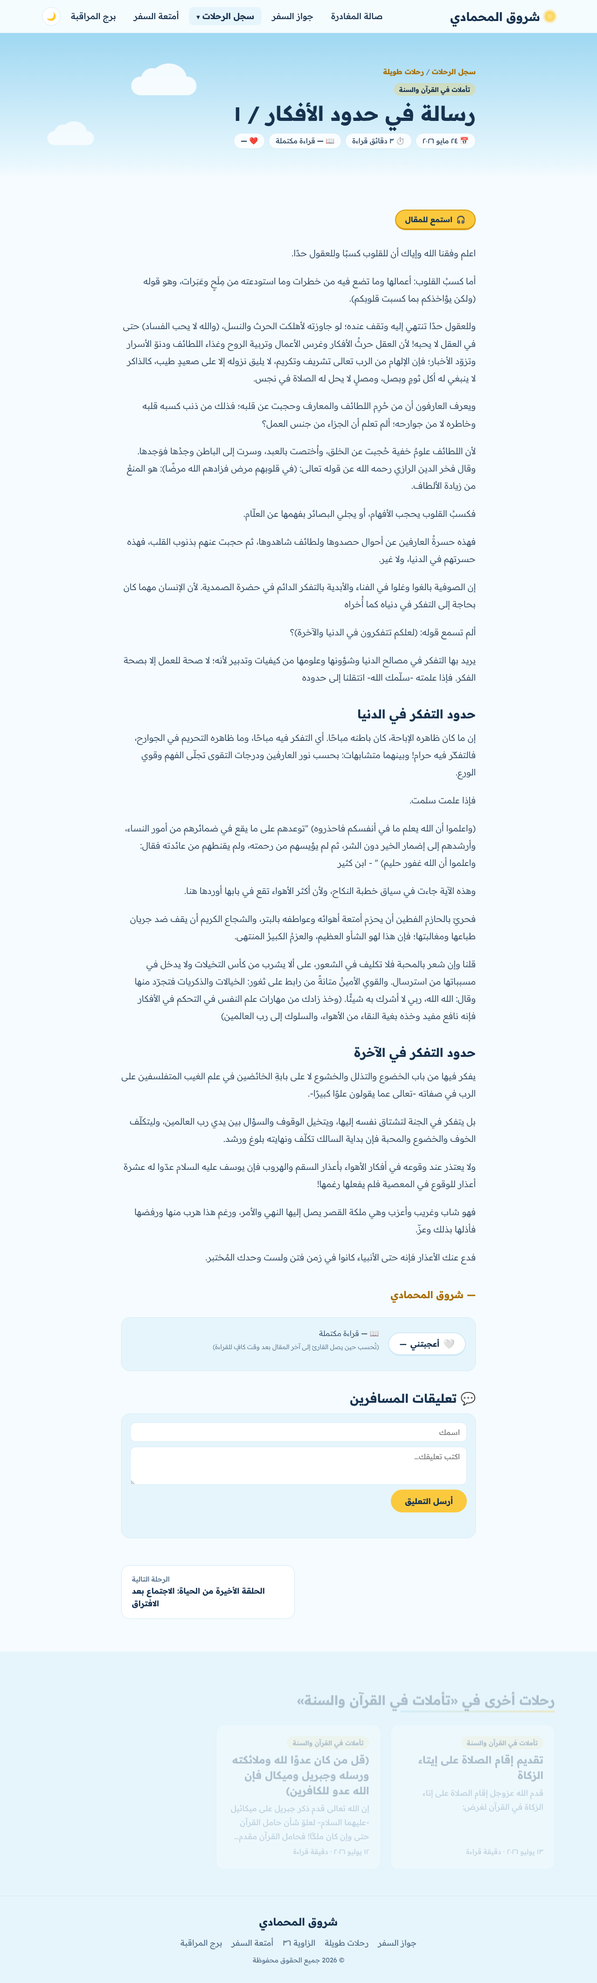
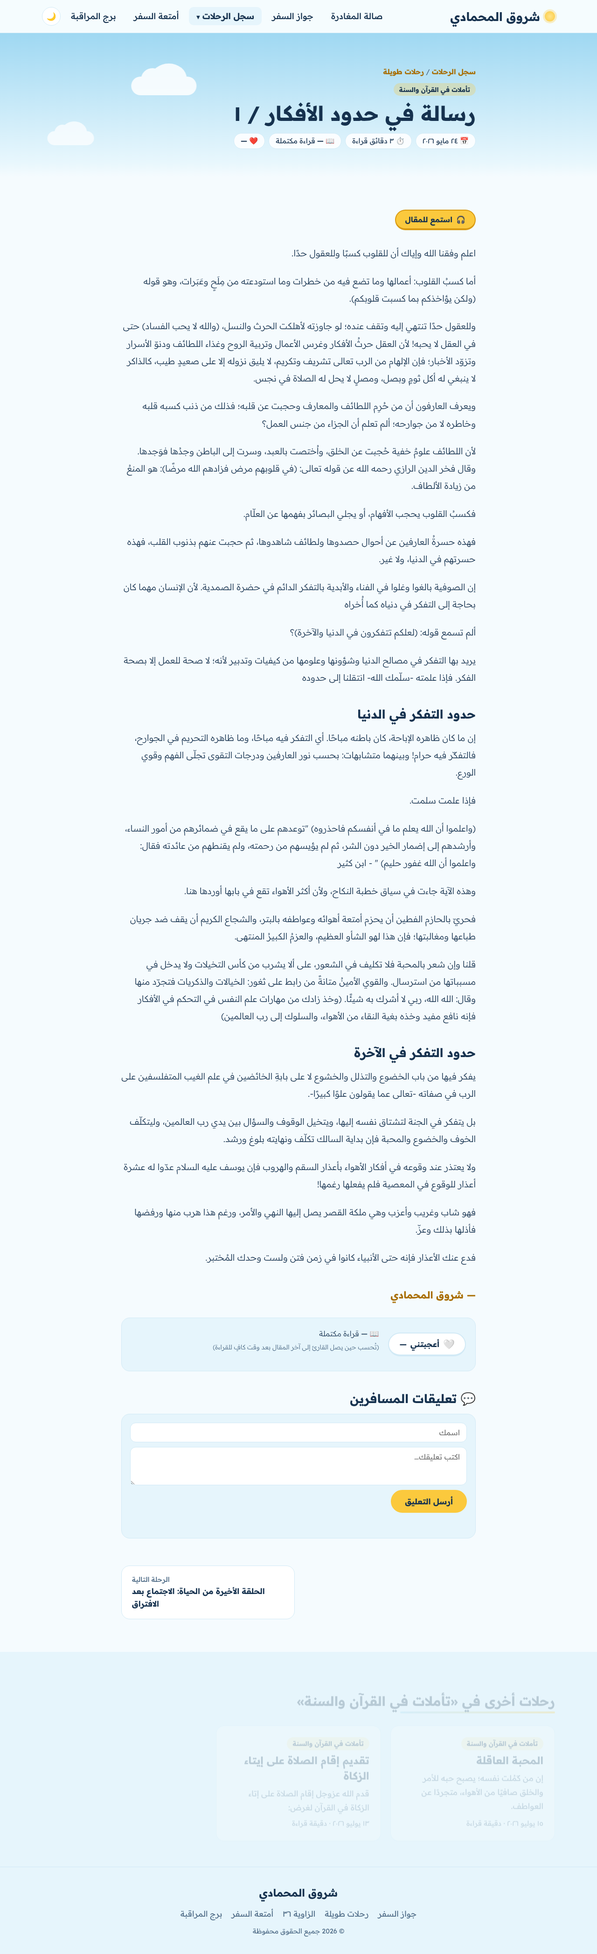
Add the article «المحبة العاقلة»
Claude-Session: https://claude.ai/code/session_0148avAa54TH8wvGnnB1ukQi

diff --git a/blog/articles/al-mahabba-al-aqila.html b/blog/articles/al-mahabba-al-aqila.html
@@ -1,0 +1,130 @@
+<!doctype html>
+<html lang="ar" dir="rtl">
+<head>
+  <meta charset="utf-8">
+  <meta name="viewport" content="width=device-width, initial-scale=1">
+  <title>المحبة العاقلة · شروق المحمادي</title>
+  <meta name="description" content="إن من كَمُلت نفسه؛ يصبح حبه للأمر والخلق صافيًا من الأهواء، متجردًا عن العواطف.">
+  <script>try{var t=localStorage.getItem("theme");if(t)document.documentElement.dataset.theme=t;}catch(e){}</script>
+  <link rel="preconnect" href="https://fonts.googleapis.com">
+  <link rel="preconnect" href="https://fonts.gstatic.com" crossorigin>
+  <link href="https://fonts.googleapis.com/css2?family=Readex+Pro:wght@300;400;500;600;700&family=Amiri+Quran&display=swap" rel="stylesheet">
+  <link rel="stylesheet" href="../../assets/styles.css">
+</head>
+<body>
+  <header class="site-header">
+    <div class="container nav">
+      <a href="../../index.html" class="logo"><span class="logo-sun" aria-hidden="true"></span>شروق المحمادي</a>
+      <button class="menu-toggle" aria-label="فتح القائمة" aria-expanded="false">☰</button>
+      <nav class="nav-links" aria-label="القائمة الرئيسية">
+        <a href="../../index.html">صالة المغادرة</a>
+        <a href="../../sira.html">جواز السفر</a>
+        <div class="has-sub">
+          <a href="../../blog/index.html" class="active">سجل الرحلات <span class="caret" aria-hidden="true">▾</span></a>
+          <div class="sub">
+            <a href="../../blog/articles.html" class="active">رحلات طويلة</a>
+            <a href="../../blog/zawiya-36.html">الزاوية ٣٦</a>
+          </div>
+        </div>
+        <a href="../../books.html">أمتعة السفر</a>
+        <a href="../../contact.html">برج المراقبة</a>
+        <button class="theme-toggle" aria-label="تبديل الوضع الليلي">🌙</button>
+      </nav>
+    </div>
+  </header>
+
+  <main>
+    <section class="page-hero article-hero">
+      <div class="clouds" aria-hidden="true"><span class="cloud c1"></span><span class="cloud c2"></span></div>
+      <div class="container narrow">
+        <nav class="crumbs" aria-label="مسار التنقل"><a href="../index.html">سجل الرحلات</a> / <a href="../articles.html">رحلات طويلة</a></nav>
+        <span class="tag">تأملات في القرآن والسنة</span>
+        <h1>المحبة العاقلة</h1>
+        <ul class="post-meta">
+          <li>📅 ١٥ يوليو ٢٠٢٦</li>
+          <li>⏱ دقيقة قراءة</li>
+          <li>📖 <b class="read-count">…</b> قراءة مكتملة</li>
+          <li>❤ <b class="like-count">…</b></li>
+        </ul>
+      </div>
+    </section>
+
+    <article class="section" id="post" data-slug="al-mahabba-al-aqila" data-minutes="1.13">
+      <div class="container narrow prose">
+        <div class="listen" hidden>
+          <button class="listen-btn" type="button"><span class="listen-icon" aria-hidden="true">🎧</span> <span class="listen-label">استمع للمقال</span></button>
+          <button class="listen-stop" type="button" hidden>⏹ إيقاف</button>
+          <button class="listen-rate" type="button" hidden>السرعة ١×</button>
+          <span class="listen-status" role="status"></span>
+        </div>
+        <p>إن من كَمُلت نفسه؛ يصبح حبه للأمر والخلق صافيًا من الأهواء، متجردًا عن العواطف.</p>
+        <p>فأنت تحبهم لحصول الهداية والخير لهم؛ وهذه المحبة الناشئة عن التعقل، لا لمصالحك منهم، ولا لجمالهم وأشكالهم وألوانهم وأصواتهم.</p>
+        <p>فالإخلاص في القصد حتى عند معاملة الخلق هو كمال النفس والمحبة.</p>
+        <p>وكذلك الأمر للأهداف في الحياة والطموحات</p>
+        <p>{قد نرى تقلب وجهك في السماء فلنولينك قبلة ترضاها} قال ترضاها ولم يقل تهواها أو تحبها؛ لأن رسول الله صلى الله عليه وسلم نفسه كاملة فهو أحبَّ أن تكون القبلة إلى الكعبة؛ لأنها بنيت على التوحيد فهي أولى من غيرها، وليس لأنها موطنه أو تعصبًا لقبيلته.</p>
+        <p>كمال نفس رسول الله صلى الله عليه وسلم فهو لا يتعلق قلبه بشيء معين بل يريد الشيء في قلبه لمصلحة خير.</p>
+        <p>ترضاها "ولَمّا كانَ الرِّضى مُشْعِرًا بِالمَحَبَّةِ النّاشِئَةِ عَنْ تَعَقُّلٍ اخْتِيرَ في هَذا المَقامِ دُونَ ”تُحِبُّها“ أوْ ”تَهْواها“ - ابن عاشور</p>
+        <p>فالمحبة التي تبنى على أسباب عقلية وإيمانية هي أكمل المحبة، ونفسك جاهدها على ذلك، ثم انظر إلى نعيم الارتياح الذي أنت فيه.</p>
+        <p>إنني أحب الإنسانية، غير أن هناك شيئًا في نفسي يدهشني، كلما ازداد حبي للإنسانية جملة واحدة نقص حبي للبشر أفرادًا."</p>
+        <p>يظهر أن دوستيفسكي قد وصل لمرحلة عالية من الرشد حتى أنه تخلص من أن يكن لفرد بمحبة خاصة وعاطفة معينة، بدأ يستوعب أن هناك محبة عامة لجميع البشر. وأما محبتنا الخاصة الخالصة فتكون لكائن أعلى منا حقيق بها!</p>
+        <p>نعم ومن يصل إلى هذه الدرجة فقد اكتمل رشده.</p>
+        <p class="signature">— شروق المحمادي</p>
+        <div class="engage">
+          <button class="like-btn" type="button" aria-pressed="false"><span class="heart" aria-hidden="true">🤍</span> أعجبتني <b class="like-count">…</b></button>
+          <p class="reads-note">📖 <b class="read-count">…</b> قراءة مكتملة <small>(تُحسب حين يصل القارئ إلى آخر المقال بعد وقت كافٍ للقراءة)</small></p>
+        </div>
+        <section class="comments" hidden aria-labelledby="comments-title">
+          <h2 id="comments-title">💬 تعليقات المسافرين</h2>
+          <form class="comment-form" novalidate>
+            <input name="name" type="text" maxlength="40" placeholder="اسمك" aria-label="الاسم" autocomplete="nickname">
+            <textarea name="body" rows="3" maxlength="1000" placeholder="اكتب تعليقك…" aria-label="التعليق"></textarea>
+            <input name="website" class="hp" type="text" tabindex="-1" autocomplete="off" aria-hidden="true">
+            <button type="submit" class="btn btn-primary">أرسل التعليق</button>
+            <p class="comment-status" role="status"></p>
+          </form>
+          <ol class="comment-list"></ol>
+          <p class="no-comments" hidden>لا تعليقات بعد… كن أول من يعلّق ✈</p>
+        </section>
+        <nav class="post-nav" aria-label="تنقل بين الرحلات"><a class="pn prev" href="taqdim-as-salah.html"><span>الرحلة السابقة</span>تقديم إقام الصلاة على إيتاء الزكاة</a></nav>
+      </div>
+    </article>
+
+    <section class="section alt">
+      <div class="container">
+        <h2 class="section-title">رحلات أخرى في «تأملات في القرآن والسنة»</h2>
+        <div class="posts">
+          <article class="post-card" data-tag="تأملات في القرآن والسنة">
+            <span class="tag">تأملات في القرآن والسنة</span>
+            <h3><a class="stretched" href="../articles/taqdim-as-salah.html">تقديم إقام الصلاة على إيتاء الزكاة</a></h3>
+            <p>قدم الله عزوجل إقام الصلاة على إتاء الزكاة في القرآن لغرض:</p>
+            <p class="meta">١٣ يوليو ٢٠٢٦ · دقيقة قراءة</p>
+          </article>
+          <article class="post-card" data-tag="تأملات في القرآن والسنة">
+            <span class="tag">تأملات في القرآن والسنة</span>
+            <h3><a class="stretched" href="../articles/jibril-wa-mikal.html">(قل من كان عدوًا لله وملائكته ورسله وجبريل وميكال فإن الله عدو للكافرين)</a></h3>
+            <p>إن الله تعالى قدم ذكر جبريل على ميكائيل -عليهما السلام- لعلوّ شأن حامل القرآن حتى وإن كان ملكًا! فحامل القرآن مقدم على غيره في الذكر لعلو شأن الذي وقر في صدره</p>
+            <p class="meta">١٢ يوليو ٢٠٢٦ · دقيقة قراءة</p>
+          </article>
+        </div>
+      </div>
+    </section>
+
+  </main>
+
+  <footer class="site-footer">
+    <div class="container footer-inner">
+      <p class="footer-name">شروق المحمادي</p>
+      <nav class="footer-links" aria-label="روابط التذييل">
+        <a href="../../sira.html">جواز السفر</a>
+        <a href="../../blog/articles.html">رحلات طويلة</a>
+        <a href="../../blog/zawiya-36.html">الزاوية ٣٦</a>
+        <a href="../../books.html">أمتعة السفر</a>
+        <a href="../../contact.html">برج المراقبة</a>
+      </nav>
+      <p class="copy">© <span class="year"></span> جميع الحقوق محفوظة</p>
+    </div>
+  </footer>
+
+  <script src="../../assets/script.js"></script>
+</body>
+</html>

diff --git a/blog/articles/taqdim-as-salah.html b/blog/articles/taqdim-as-salah.html
@@ -78,7 +78,7 @@
           <ol class="comment-list"></ol>
           <p class="no-comments" hidden>لا تعليقات بعد… كن أول من يعلّق ✈</p>
         </section>
-        <nav class="post-nav" aria-label="تنقل بين الرحلات"><a class="pn prev" href="jibril-wa-mikal.html"><span>الرحلة السابقة</span>(قل من كان عدوًا لله وملائكته ورسله وجبريل وميكال فإن الله عدو للكافرين)</a></nav>
+        <nav class="post-nav" aria-label="تنقل بين الرحلات"><a class="pn prev" href="jibril-wa-mikal.html"><span>الرحلة السابقة</span>(قل من كان عدوًا لله وملائكته ورسله وجبريل وميكال فإن الله عدو للكافرين)</a><a class="pn next" href="al-mahabba-al-aqila.html"><span>الرحلة التالية</span>المحبة العاقلة</a></nav>
       </div>
     </article>
 
@@ -88,14 +88,14 @@
         <div class="posts">
           <article class="post-card" data-tag="تأملات في القرآن والسنة">
             <span class="tag">تأملات في القرآن والسنة</span>
-            <h3><a class="stretched" href="../articles/jibril-wa-mikal.html">(قل من كان عدوًا لله وملائكته ورسله وجبريل وميكال فإن الله عدو للكافرين)</a></h3>
-            <p>إن الله تعالى قدم ذكر جبريل على ميكائيل -عليهما السلام- لعلوّ شأن حامل القرآن حتى وإن كان ملكًا! فحامل القرآن مقدم على غيره في الذكر لعلو شأن الذي وقر في صدره</p>
-            <p class="meta">١٢ يوليو ٢٠٢٦ · دقيقة قراءة</p>
+            <h3><a class="stretched" href="../articles/al-mahabba-al-aqila.html">المحبة العاقلة</a></h3>
+            <p>إن من كَمُلت نفسه؛ يصبح حبه للأمر والخلق صافيًا من الأهواء، متجردًا عن العواطف.</p>
+            <p class="meta">١٥ يوليو ٢٠٢٦ · دقيقة قراءة</p>
           </article>
           <article class="post-card" data-tag="تأملات في القرآن والسنة">
             <span class="tag">تأملات في القرآن والسنة</span>
-            <h3><a class="stretched" href="../articles/kullama-adaa-lahum.html">تدبر في قوله تعالى (كلما أضاء لهم مشوا فيه)</a></h3>
-            <p>فهم القرآن ضياء، وبقدر فهمك للقرآن بقدر ما تعمل به.</p>
+            <h3><a class="stretched" href="../articles/jibril-wa-mikal.html">(قل من كان عدوًا لله وملائكته ورسله وجبريل وميكال فإن الله عدو للكافرين)</a></h3>
+            <p>إن الله تعالى قدم ذكر جبريل على ميكائيل -عليهما السلام- لعلوّ شأن حامل القرآن حتى وإن كان ملكًا! فحامل القرآن مقدم على غيره في الذكر لعلو شأن الذي وقر في صدره</p>
             <p class="meta">١٢ يوليو ٢٠٢٦ · دقيقة قراءة</p>
           </article>
         </div>

diff --git a/blog/index.html b/blog/index.html
@@ -50,7 +50,7 @@
             <span class="door-icon">✍</span>
             <h2>رحلات طويلة</h2>
             <p>نصوص أطول أتعمّق فيها في فكرة أو تجربة أو كتاب.</p>
-            <span class="count">١٦ رحلات</span>
+            <span class="count">١٧ رحلات</span>
           </a>
           <a class="blog-door night" href="zawiya-36.html">
             <span class="door-icon">🌙</span>
@@ -71,6 +71,12 @@
         <div class="posts">
           <article class="post-card" data-tag="تأملات في القرآن والسنة">
             <span class="tag">تأملات في القرآن والسنة</span>
+            <h3><a class="stretched" href="articles/al-mahabba-al-aqila.html">المحبة العاقلة</a></h3>
+            <p>إن من كَمُلت نفسه؛ يصبح حبه للأمر والخلق صافيًا من الأهواء، متجردًا عن العواطف.</p>
+            <p class="meta">١٥ يوليو ٢٠٢٦ · دقيقة قراءة</p>
+          </article>
+          <article class="post-card" data-tag="تأملات في القرآن والسنة">
+            <span class="tag">تأملات في القرآن والسنة</span>
             <h3><a class="stretched" href="articles/taqdim-as-salah.html">تقديم إقام الصلاة على إيتاء الزكاة</a></h3>
             <p>قدم الله عزوجل إقام الصلاة على إتاء الزكاة في القرآن لغرض:</p>
             <p class="meta">١٣ يوليو ٢٠٢٦ · دقيقة قراءة</p>
@@ -79,12 +85,6 @@
             <span class="tag">تأملات في القرآن والسنة</span>
             <h3><a class="stretched" href="articles/jibril-wa-mikal.html">(قل من كان عدوًا لله وملائكته ورسله وجبريل وميكال فإن الله عدو للكافرين)</a></h3>
             <p>إن الله تعالى قدم ذكر جبريل على ميكائيل -عليهما السلام- لعلوّ شأن حامل القرآن حتى وإن كان ملكًا! فحامل القرآن مقدم على غيره في الذكر لعلو شأن الذي وقر في صدره</p>
-            <p class="meta">١٢ يوليو ٢٠٢٦ · دقيقة قراءة</p>
-          </article>
-          <article class="post-card" data-tag="تأملات في القرآن والسنة">
-            <span class="tag">تأملات في القرآن والسنة</span>
-            <h3><a class="stretched" href="articles/kullama-adaa-lahum.html">تدبر في قوله تعالى (كلما أضاء لهم مشوا فيه)</a></h3>
-            <p>فهم القرآن ضياء، وبقدر فهمك للقرآن بقدر ما تعمل به.</p>
             <p class="meta">١٢ يوليو ٢٠٢٦ · دقيقة قراءة</p>
           </article>
         </div>

diff --git a/index.html b/index.html
@@ -77,6 +77,12 @@
         <div class="posts">
           <article class="post-card" data-tag="تأملات في القرآن والسنة">
             <span class="tag">تأملات في القرآن والسنة</span>
+            <h3><a class="stretched" href="blog/articles/al-mahabba-al-aqila.html">المحبة العاقلة</a></h3>
+            <p>إن من كَمُلت نفسه؛ يصبح حبه للأمر والخلق صافيًا من الأهواء، متجردًا عن العواطف.</p>
+            <p class="meta">١٥ يوليو ٢٠٢٦ · دقيقة قراءة</p>
+          </article>
+          <article class="post-card" data-tag="تأملات في القرآن والسنة">
+            <span class="tag">تأملات في القرآن والسنة</span>
             <h3><a class="stretched" href="blog/articles/taqdim-as-salah.html">تقديم إقام الصلاة على إيتاء الزكاة</a></h3>
             <p>قدم الله عزوجل إقام الصلاة على إتاء الزكاة في القرآن لغرض:</p>
             <p class="meta">١٣ يوليو ٢٠٢٦ · دقيقة قراءة</p>
@@ -85,12 +91,6 @@
             <span class="tag">تأملات في القرآن والسنة</span>
             <h3><a class="stretched" href="blog/articles/jibril-wa-mikal.html">(قل من كان عدوًا لله وملائكته ورسله وجبريل وميكال فإن الله عدو للكافرين)</a></h3>
             <p>إن الله تعالى قدم ذكر جبريل على ميكائيل -عليهما السلام- لعلوّ شأن حامل القرآن حتى وإن كان ملكًا! فحامل القرآن مقدم على غيره في الذكر لعلو شأن الذي وقر في صدره</p>
-            <p class="meta">١٢ يوليو ٢٠٢٦ · دقيقة قراءة</p>
-          </article>
-          <article class="post-card" data-tag="تأملات في القرآن والسنة">
-            <span class="tag">تأملات في القرآن والسنة</span>
-            <h3><a class="stretched" href="blog/articles/kullama-adaa-lahum.html">تدبر في قوله تعالى (كلما أضاء لهم مشوا فيه)</a></h3>
-            <p>فهم القرآن ضياء، وبقدر فهمك للقرآن بقدر ما تعمل به.</p>
             <p class="meta">١٢ يوليو ٢٠٢٦ · دقيقة قراءة</p>
           </article>
         </div>

diff --git a/blog/articles/al-ijtima-bad-al-iftiraq.html b/blog/articles/al-ijtima-bad-al-iftiraq.html
@@ -149,15 +149,15 @@
         <div class="posts">
           <article class="post-card" data-tag="تأملات في القرآن والسنة">
             <span class="tag">تأملات في القرآن والسنة</span>
-            <h3><a class="stretched" href="../articles/taqdim-as-salah.html">تقديم إقام الصلاة على إيتاء الزكاة</a></h3>
-            <p>قدم الله عزوجل إقام الصلاة على إتاء الزكاة في القرآن لغرض:</p>
-            <p class="meta">١٣ يوليو ٢٠٢٦ · دقيقة قراءة</p>
+            <h3><a class="stretched" href="../articles/al-mahabba-al-aqila.html">المحبة العاقلة</a></h3>
+            <p>إن من كَمُلت نفسه؛ يصبح حبه للأمر والخلق صافيًا من الأهواء، متجردًا عن العواطف.</p>
+            <p class="meta">١٥ يوليو ٢٠٢٦ · دقيقة قراءة</p>
           </article>
           <article class="post-card" data-tag="تأملات في القرآن والسنة">
             <span class="tag">تأملات في القرآن والسنة</span>
-            <h3><a class="stretched" href="../articles/jibril-wa-mikal.html">(قل من كان عدوًا لله وملائكته ورسله وجبريل وميكال فإن الله عدو للكافرين)</a></h3>
-            <p>إن الله تعالى قدم ذكر جبريل على ميكائيل -عليهما السلام- لعلوّ شأن حامل القرآن حتى وإن كان ملكًا! فحامل القرآن مقدم على غيره في الذكر لعلو شأن الذي وقر في صدره</p>
-            <p class="meta">١٢ يوليو ٢٠٢٦ · دقيقة قراءة</p>
+            <h3><a class="stretched" href="../articles/taqdim-as-salah.html">تقديم إقام الصلاة على إيتاء الزكاة</a></h3>
+            <p>قدم الله عزوجل إقام الصلاة على إتاء الزكاة في القرآن لغرض:</p>
+            <p class="meta">١٣ يوليو ٢٠٢٦ · دقيقة قراءة</p>
           </article>
         </div>
       </div>

diff --git a/blog/articles/aw-ka-sayyib.html b/blog/articles/aw-ka-sayyib.html
@@ -100,15 +100,15 @@
         <div class="posts">
           <article class="post-card" data-tag="تأملات في القرآن والسنة">
             <span class="tag">تأملات في القرآن والسنة</span>
-            <h3><a class="stretched" href="../articles/taqdim-as-salah.html">تقديم إقام الصلاة على إيتاء الزكاة</a></h3>
-            <p>قدم الله عزوجل إقام الصلاة على إتاء الزكاة في القرآن لغرض:</p>
-            <p class="meta">١٣ يوليو ٢٠٢٦ · دقيقة قراءة</p>
+            <h3><a class="stretched" href="../articles/al-mahabba-al-aqila.html">المحبة العاقلة</a></h3>
+            <p>إن من كَمُلت نفسه؛ يصبح حبه للأمر والخلق صافيًا من الأهواء، متجردًا عن العواطف.</p>
+            <p class="meta">١٥ يوليو ٢٠٢٦ · دقيقة قراءة</p>
           </article>
           <article class="post-card" data-tag="تأملات في القرآن والسنة">
             <span class="tag">تأملات في القرآن والسنة</span>
-            <h3><a class="stretched" href="../articles/jibril-wa-mikal.html">(قل من كان عدوًا لله وملائكته ورسله وجبريل وميكال فإن الله عدو للكافرين)</a></h3>
-            <p>إن الله تعالى قدم ذكر جبريل على ميكائيل -عليهما السلام- لعلوّ شأن حامل القرآن حتى وإن كان ملكًا! فحامل القرآن مقدم على غيره في الذكر لعلو شأن الذي وقر في صدره</p>
-            <p class="meta">١٢ يوليو ٢٠٢٦ · دقيقة قراءة</p>
+            <h3><a class="stretched" href="../articles/taqdim-as-salah.html">تقديم إقام الصلاة على إيتاء الزكاة</a></h3>
+            <p>قدم الله عزوجل إقام الصلاة على إتاء الزكاة في القرآن لغرض:</p>
+            <p class="meta">١٣ يوليو ٢٠٢٦ · دقيقة قراءة</p>
           </article>
         </div>
       </div>

diff --git a/blog/articles/hudud-al-afkar-1.html b/blog/articles/hudud-al-afkar-1.html
@@ -107,15 +107,15 @@
         <div class="posts">
           <article class="post-card" data-tag="تأملات في القرآن والسنة">
             <span class="tag">تأملات في القرآن والسنة</span>
-            <h3><a class="stretched" href="../articles/taqdim-as-salah.html">تقديم إقام الصلاة على إيتاء الزكاة</a></h3>
-            <p>قدم الله عزوجل إقام الصلاة على إتاء الزكاة في القرآن لغرض:</p>
-            <p class="meta">١٣ يوليو ٢٠٢٦ · دقيقة قراءة</p>
+            <h3><a class="stretched" href="../articles/al-mahabba-al-aqila.html">المحبة العاقلة</a></h3>
+            <p>إن من كَمُلت نفسه؛ يصبح حبه للأمر والخلق صافيًا من الأهواء، متجردًا عن العواطف.</p>
+            <p class="meta">١٥ يوليو ٢٠٢٦ · دقيقة قراءة</p>
           </article>
           <article class="post-card" data-tag="تأملات في القرآن والسنة">
             <span class="tag">تأملات في القرآن والسنة</span>
-            <h3><a class="stretched" href="../articles/jibril-wa-mikal.html">(قل من كان عدوًا لله وملائكته ورسله وجبريل وميكال فإن الله عدو للكافرين)</a></h3>
-            <p>إن الله تعالى قدم ذكر جبريل على ميكائيل -عليهما السلام- لعلوّ شأن حامل القرآن حتى وإن كان ملكًا! فحامل القرآن مقدم على غيره في الذكر لعلو شأن الذي وقر في صدره</p>
-            <p class="meta">١٢ يوليو ٢٠٢٦ · دقيقة قراءة</p>
+            <h3><a class="stretched" href="../articles/taqdim-as-salah.html">تقديم إقام الصلاة على إيتاء الزكاة</a></h3>
+            <p>قدم الله عزوجل إقام الصلاة على إتاء الزكاة في القرآن لغرض:</p>
+            <p class="meta">١٣ يوليو ٢٠٢٦ · دقيقة قراءة</p>
           </article>
         </div>
       </div>

diff --git a/blog/articles/al-ghina-bil-quran.html b/blog/articles/al-ghina-bil-quran.html
@@ -97,15 +97,15 @@
         <div class="posts">
           <article class="post-card" data-tag="تأملات في القرآن والسنة">
             <span class="tag">تأملات في القرآن والسنة</span>
-            <h3><a class="stretched" href="../articles/taqdim-as-salah.html">تقديم إقام الصلاة على إيتاء الزكاة</a></h3>
-            <p>قدم الله عزوجل إقام الصلاة على إتاء الزكاة في القرآن لغرض:</p>
-            <p class="meta">١٣ يوليو ٢٠٢٦ · دقيقة قراءة</p>
+            <h3><a class="stretched" href="../articles/al-mahabba-al-aqila.html">المحبة العاقلة</a></h3>
+            <p>إن من كَمُلت نفسه؛ يصبح حبه للأمر والخلق صافيًا من الأهواء، متجردًا عن العواطف.</p>
+            <p class="meta">١٥ يوليو ٢٠٢٦ · دقيقة قراءة</p>
           </article>
           <article class="post-card" data-tag="تأملات في القرآن والسنة">
             <span class="tag">تأملات في القرآن والسنة</span>
-            <h3><a class="stretched" href="../articles/jibril-wa-mikal.html">(قل من كان عدوًا لله وملائكته ورسله وجبريل وميكال فإن الله عدو للكافرين)</a></h3>
-            <p>إن الله تعالى قدم ذكر جبريل على ميكائيل -عليهما السلام- لعلوّ شأن حامل القرآن حتى وإن كان ملكًا! فحامل القرآن مقدم على غيره في الذكر لعلو شأن الذي وقر في صدره</p>
-            <p class="meta">١٢ يوليو ٢٠٢٦ · دقيقة قراءة</p>
+            <h3><a class="stretched" href="../articles/taqdim-as-salah.html">تقديم إقام الصلاة على إيتاء الزكاة</a></h3>
+            <p>قدم الله عزوجل إقام الصلاة على إتاء الزكاة في القرآن لغرض:</p>
+            <p class="meta">١٣ يوليو ٢٠٢٦ · دقيقة قراءة</p>
           </article>
         </div>
       </div>

diff --git a/blog/articles/al-habl.html b/blog/articles/al-habl.html
@@ -92,15 +92,15 @@
         <div class="posts">
           <article class="post-card" data-tag="تأملات في القرآن والسنة">
             <span class="tag">تأملات في القرآن والسنة</span>
-            <h3><a class="stretched" href="../articles/taqdim-as-salah.html">تقديم إقام الصلاة على إيتاء الزكاة</a></h3>
-            <p>قدم الله عزوجل إقام الصلاة على إتاء الزكاة في القرآن لغرض:</p>
-            <p class="meta">١٣ يوليو ٢٠٢٦ · دقيقة قراءة</p>
+            <h3><a class="stretched" href="../articles/al-mahabba-al-aqila.html">المحبة العاقلة</a></h3>
+            <p>إن من كَمُلت نفسه؛ يصبح حبه للأمر والخلق صافيًا من الأهواء، متجردًا عن العواطف.</p>
+            <p class="meta">١٥ يوليو ٢٠٢٦ · دقيقة قراءة</p>
           </article>
           <article class="post-card" data-tag="تأملات في القرآن والسنة">
             <span class="tag">تأملات في القرآن والسنة</span>
-            <h3><a class="stretched" href="../articles/jibril-wa-mikal.html">(قل من كان عدوًا لله وملائكته ورسله وجبريل وميكال فإن الله عدو للكافرين)</a></h3>
-            <p>إن الله تعالى قدم ذكر جبريل على ميكائيل -عليهما السلام- لعلوّ شأن حامل القرآن حتى وإن كان ملكًا! فحامل القرآن مقدم على غيره في الذكر لعلو شأن الذي وقر في صدره</p>
-            <p class="meta">١٢ يوليو ٢٠٢٦ · دقيقة قراءة</p>
+            <h3><a class="stretched" href="../articles/taqdim-as-salah.html">تقديم إقام الصلاة على إيتاء الزكاة</a></h3>
+            <p>قدم الله عزوجل إقام الصلاة على إتاء الزكاة في القرآن لغرض:</p>
+            <p class="meta">١٣ يوليو ٢٠٢٦ · دقيقة قراءة</p>
           </article>
         </div>
       </div>

diff --git a/blog/articles/al-quwwa-al-manawiyya.html b/blog/articles/al-quwwa-al-manawiyya.html
@@ -88,15 +88,15 @@
         <div class="posts">
           <article class="post-card" data-tag="تأملات في القرآن والسنة">
             <span class="tag">تأملات في القرآن والسنة</span>
-            <h3><a class="stretched" href="../articles/taqdim-as-salah.html">تقديم إقام الصلاة على إيتاء الزكاة</a></h3>
-            <p>قدم الله عزوجل إقام الصلاة على إتاء الزكاة في القرآن لغرض:</p>
-            <p class="meta">١٣ يوليو ٢٠٢٦ · دقيقة قراءة</p>
+            <h3><a class="stretched" href="../articles/al-mahabba-al-aqila.html">المحبة العاقلة</a></h3>
+            <p>إن من كَمُلت نفسه؛ يصبح حبه للأمر والخلق صافيًا من الأهواء، متجردًا عن العواطف.</p>
+            <p class="meta">١٥ يوليو ٢٠٢٦ · دقيقة قراءة</p>
           </article>
           <article class="post-card" data-tag="تأملات في القرآن والسنة">
             <span class="tag">تأملات في القرآن والسنة</span>
-            <h3><a class="stretched" href="../articles/jibril-wa-mikal.html">(قل من كان عدوًا لله وملائكته ورسله وجبريل وميكال فإن الله عدو للكافرين)</a></h3>
-            <p>إن الله تعالى قدم ذكر جبريل على ميكائيل -عليهما السلام- لعلوّ شأن حامل القرآن حتى وإن كان ملكًا! فحامل القرآن مقدم على غيره في الذكر لعلو شأن الذي وقر في صدره</p>
-            <p class="meta">١٢ يوليو ٢٠٢٦ · دقيقة قراءة</p>
+            <h3><a class="stretched" href="../articles/taqdim-as-salah.html">تقديم إقام الصلاة على إيتاء الزكاة</a></h3>
+            <p>قدم الله عزوجل إقام الصلاة على إتاء الزكاة في القرآن لغرض:</p>
+            <p class="meta">١٣ يوليو ٢٠٢٦ · دقيقة قراءة</p>
           </article>
         </div>
       </div>

diff --git a/blog/articles/an-nahy-an-sabb-an-nafs.html b/blog/articles/an-nahy-an-sabb-an-nafs.html
@@ -87,15 +87,15 @@
         <div class="posts">
           <article class="post-card" data-tag="تأملات في القرآن والسنة">
             <span class="tag">تأملات في القرآن والسنة</span>
-            <h3><a class="stretched" href="../articles/taqdim-as-salah.html">تقديم إقام الصلاة على إيتاء الزكاة</a></h3>
-            <p>قدم الله عزوجل إقام الصلاة على إتاء الزكاة في القرآن لغرض:</p>
-            <p class="meta">١٣ يوليو ٢٠٢٦ · دقيقة قراءة</p>
+            <h3><a class="stretched" href="../articles/al-mahabba-al-aqila.html">المحبة العاقلة</a></h3>
+            <p>إن من كَمُلت نفسه؛ يصبح حبه للأمر والخلق صافيًا من الأهواء، متجردًا عن العواطف.</p>
+            <p class="meta">١٥ يوليو ٢٠٢٦ · دقيقة قراءة</p>
           </article>
           <article class="post-card" data-tag="تأملات في القرآن والسنة">
             <span class="tag">تأملات في القرآن والسنة</span>
-            <h3><a class="stretched" href="../articles/jibril-wa-mikal.html">(قل من كان عدوًا لله وملائكته ورسله وجبريل وميكال فإن الله عدو للكافرين)</a></h3>
-            <p>إن الله تعالى قدم ذكر جبريل على ميكائيل -عليهما السلام- لعلوّ شأن حامل القرآن حتى وإن كان ملكًا! فحامل القرآن مقدم على غيره في الذكر لعلو شأن الذي وقر في صدره</p>
-            <p class="meta">١٢ يوليو ٢٠٢٦ · دقيقة قراءة</p>
+            <h3><a class="stretched" href="../articles/taqdim-as-salah.html">تقديم إقام الصلاة على إيتاء الزكاة</a></h3>
+            <p>قدم الله عزوجل إقام الصلاة على إتاء الزكاة في القرآن لغرض:</p>
+            <p class="meta">١٣ يوليو ٢٠٢٦ · دقيقة قراءة</p>
           </article>
         </div>
       </div>

diff --git a/blog/articles/fasbir-inna-wad-allah-haq.html b/blog/articles/fasbir-inna-wad-allah-haq.html
@@ -88,15 +88,15 @@
         <div class="posts">
           <article class="post-card" data-tag="تأملات في القرآن والسنة">
             <span class="tag">تأملات في القرآن والسنة</span>
-            <h3><a class="stretched" href="../articles/taqdim-as-salah.html">تقديم إقام الصلاة على إيتاء الزكاة</a></h3>
-            <p>قدم الله عزوجل إقام الصلاة على إتاء الزكاة في القرآن لغرض:</p>
-            <p class="meta">١٣ يوليو ٢٠٢٦ · دقيقة قراءة</p>
+            <h3><a class="stretched" href="../articles/al-mahabba-al-aqila.html">المحبة العاقلة</a></h3>
+            <p>إن من كَمُلت نفسه؛ يصبح حبه للأمر والخلق صافيًا من الأهواء، متجردًا عن العواطف.</p>
+            <p class="meta">١٥ يوليو ٢٠٢٦ · دقيقة قراءة</p>
           </article>
           <article class="post-card" data-tag="تأملات في القرآن والسنة">
             <span class="tag">تأملات في القرآن والسنة</span>
-            <h3><a class="stretched" href="../articles/jibril-wa-mikal.html">(قل من كان عدوًا لله وملائكته ورسله وجبريل وميكال فإن الله عدو للكافرين)</a></h3>
-            <p>إن الله تعالى قدم ذكر جبريل على ميكائيل -عليهما السلام- لعلوّ شأن حامل القرآن حتى وإن كان ملكًا! فحامل القرآن مقدم على غيره في الذكر لعلو شأن الذي وقر في صدره</p>
-            <p class="meta">١٢ يوليو ٢٠٢٦ · دقيقة قراءة</p>
+            <h3><a class="stretched" href="../articles/taqdim-as-salah.html">تقديم إقام الصلاة على إيتاء الزكاة</a></h3>
+            <p>قدم الله عزوجل إقام الصلاة على إتاء الزكاة في القرآن لغرض:</p>
+            <p class="meta">١٣ يوليو ٢٠٢٦ · دقيقة قراءة</p>
           </article>
         </div>
       </div>
